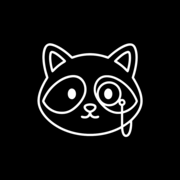
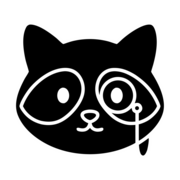
Update app and site branding assets

diff --git a/landing/index.html b/landing/index.html
@@ -5,7 +5,7 @@
   <meta name="viewport" content="width=device-width, initial-scale=1.0" />
   <title>BuddyGrammar — Fix text with one shortcut</title>
   <link rel="icon" href="assets/favicon.ico" sizes="any" />
-  <link rel="icon" type="image/svg+xml" href="assets/buddygrammar-logo.svg" />
+  <link rel="icon" type="image/png" href="assets/logo.png" />
   <link rel="icon" type="image/png" sizes="32x32" href="assets/favicon-32x32.png" />
   <link rel="icon" type="image/png" sizes="16x16" href="assets/favicon-16x16.png" />
   <link rel="apple-touch-icon" href="assets/apple-touch-icon.png" />
@@ -341,7 +341,7 @@
   <!-- Nav -->
   <nav>
     <div class="logo">
-      <img class="logo-icon" src="assets/buddygrammar-logo.svg" alt="" />
+      <img class="logo-icon" src="assets/logo.png" alt="" />
       BuddyGrammar
     </div>
     <div style="display:flex;gap:20px;align-items:center;">
@@ -354,7 +354,7 @@
   <!-- Hero -->
   <section class="hero">
     <div class="hero-mark">
-      <img class="hero-logo" src="assets/buddygrammar-logo.svg" alt="BuddyGrammar logo" />
+      <img class="hero-logo" src="assets/logo.png" alt="BuddyGrammar logo" />
     </div>
     <h1>Fix your text with <em>one shortcut</em></h1>
     <p>A native macOS menu bar utility that grabs selected text, rewrites it with AI, and pastes it back — instantly.</p>

diff --git a/BuddyGrammar/Views/MenuBarContentView.swift b/BuddyGrammar/Views/MenuBarContentView.swift
@@ -18,9 +18,10 @@ struct MenuBarContentView: View {
         VStack(alignment: .leading, spacing: 0) {
             // Header
             HStack(spacing: 8) {
-                Image(systemName: "sparkles.rectangle.stack")
-                    .font(.system(size: 14, weight: .bold))
-                    .foregroundStyle(primary)
+                Image("BrandLogo")
+                    .resizable()
+                    .scaledToFit()
+                    .frame(width: 16, height: 16)
                 Text("BuddyGrammar")
                     .font(.system(size: 13, weight: .black, design: .rounded))
                     .foregroundStyle(fg)
@@ -129,5 +130,4 @@ private struct ProfileButton: View {
         .onHover { isHovered = $0 }
     }
 }
-
 
